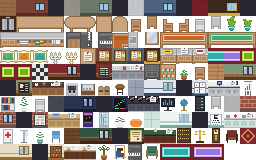
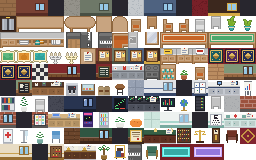
Lobby: five elevators (Tutorial, Floors 1–3, Daily) with name plates and gold-framed mats
The Tutorial and the Daily Case are elevators on the back wall like Floors 1–3; the front doors and
their long rugs are gone. Each elevator has its name on the door (the boxed plate the floors use for
LOBBY) and a LOCKED plate on its mat until it opens. New mats: a gold frame with corner studs and a
diamond (tools/art/elegant_mats.py, same tile indexes). Tags can set fit (tiles) so a plate's text
shrinks when the room is drawn small, which keeps five names apart on a phone.

Changed region(s): [[0.8125, 0.2812, 1.0, 0.4062], [0.0, 0.4062, 0.125, 0.5]]

diff --git a/app/tower/lobbyMap.ts b/app/tower/lobbyMap.ts
@@ -1,6 +1,6 @@
-// The tower lobby as a walkable map: elevators to Floors 1–3 on the back wall, the street door to the
-// The tutorial at the front, a reception desk and signs to read. Built in code from the
-// shared tileset so it follows the player's progress: a locked floor's elevator has no exit, only a sign.
+// The tower lobby as a walkable map: five elevators on the back wall (Tutorial, Floors 1–3, Daily Case),
+// each with a name plate on its door and a mat in front, a reception desk and signs to read. Built in
+// code from the shared tileset so it follows the player's progress: a locked elevator has no exit.
 import type { FloorMap } from "@/app/floor/types";
 import type { TowerFloor } from "@/server/game/tower";
 import { dailyCase, todayUtc } from "@/shared/dailyCase";
@@ -13,14 +13,14 @@ const T = {
   counter: 32, counterPapers: 33, counterFiles: 35, plant: 30, plantSmall: 31,
   painting: 49, bookshelf: 39, water: 40,
   chairDown: 24, tableRound: 23, chairLeft: 26, chairRight: 27, candelabra: 52,
-  matTutorial: 61, matDaily: 62, // cute welcome mats (tools/art/door_mats.py)
-  mat1: 63, mat2: 64, mat3: 65,
-  matTutorialL: 154, matTutorialR: 155, matDailyL: 156, matDailyR: 157, // 3-wide ends (tools/art/mat_words.py)
+  // Elevator mats: gold-framed runners (tools/art/elegant_mats.py).
+  matTutorial: 61, matDaily: 62, mat1: 63, mat2: 64, mat3: 65,
 } as const;
 
-export const ELEVATORS: Record<1 | 2 | 3, number> = { 1: 4, 2: 9, 3: 14 }; // x of each elevator door
-const DOOR_X = 9; // street door in the front wall
-export const DAILY_X = 15; // the Daily Case door, also in the front wall (open once the tutorial is cleared)
+export const ELEVATORS: Record<1 | 2 | 3, number> = { 1: 6, 2: 9, 3: 12 }; // x of each floor's elevator
+export const TUTORIAL_X = 3; // the Tutorial's elevator (it goes across the street to the little branch)
+export const DAILY_X = 15; // the Daily Case elevator (open once the Tutorial is cleared)
+const MID_X = 9;
 
 const clock = (ms: number) => {
   const s = Math.max(0, Math.round(ms / 1000));
@@ -29,11 +29,11 @@ const clock = (ms: number) => {
 
 /**
  * Where to stand when you come back to the lobby from a level (RESTART sends you to /tower?at=…):
- * in front of that floor's elevator facing it, or just inside the tutorial / Daily door facing out.
+ * in front of that level's elevator, facing it.
  */
 export function entranceSpawn(at: string | null | undefined): FloorMap["spawn"] | null {
-  if (at === "floor-0") return { x: DOOR_X, y: H - 3, facing: "down" };
-  if (at === "daily") return { x: DAILY_X, y: H - 3, facing: "down" };
+  if (at === "floor-0") return { x: TUTORIAL_X, y: 3, facing: "up" };
+  if (at === "daily") return { x: DAILY_X, y: 3, facing: "up" };
   const n = Number(at?.match(/^floor-([123])$/)?.[1]);
   return n ? { x: ELEVATORS[n as 1 | 2 | 3], y: 3, facing: "up" } : null;
 }
@@ -67,25 +67,17 @@ export function buildLobby(floors: TowerFloor[], entrance?: string | null): Floo
       else ground[at(x, y)] = T.floor;
     }
 
-  // Back wall: three elevators; numbered doormat on the doorway tile directly in front (y=2).
-  const elevatorMats = { 1: T.mat1, 2: T.mat2, 3: T.mat3 } as const;
-  for (const [n, x] of Object.entries(ELEVATORS)) {
+  // Back wall: five elevators, each with its mat on the tile in front (y=2), which is the exit.
+  for (const [x, mat] of [
+    [TUTORIAL_X, T.matTutorial],
+    [ELEVATORS[1], T.mat1],
+    [ELEVATORS[2], T.mat2],
+    [ELEVATORS[3], T.mat3],
+    [DAILY_X, T.matDaily],
+  ] as const) {
     walls[at(x, 1)] = T.elevator;
     ground[at(x, 0)] = T.floor;
-    ground[at(x, 2)] = elevatorMats[Number(n) as 1 | 2 | 3];
-  }
-  // Front wall: matching street / daily exits — opening in the wall (lobby carpet on the
-  // threshold), one rectangular doormat on the tile in front (not doubled on the exit itself).
-  for (const [x, l, mat, r] of [
-    [DOOR_X, T.matTutorialL, T.matTutorial, T.matTutorialR],
-    [DAILY_X, T.matDailyL, T.matDaily, T.matDailyR],
-  ] as const) {
-    walls[at(x, H - 1)] = -1;
-    ground[at(x, H - 1)] = T.floor; // threshold = same carpet as the lobby
-    // Welcome mat just inside, three tiles wide so its word fits (printed by the engine, MAT_WORDS).
-    ground[at(x - 1, H - 2)] = l;
-    ground[at(x, H - 2)] = mat;
-    ground[at(x + 1, H - 2)] = r;
+    ground[at(x, 2)] = mat;
   }
 
   const put = (x: number, y: number, tile: number, solid = true) => {
@@ -99,11 +91,8 @@ export function buildLobby(floors: TowerFloor[], entrance?: string | null): Floo
   put(2, 9, T.tableRound);
   put(2, 8, T.chairDown);
   put(16, 9, T.water);
-  put(15, 2, T.bookshelf);
-  put(3, 2, T.plantSmall);
-  // Portraits and candelabras on the back wall between the elevators (decor over the wall, not blocking).
-  for (const x of [7, 11]) put(x, 1, T.painting, false);
-  for (const x of [2, 16]) put(x, 1, T.candelabra, false);
+  // Candelabras on the back wall at the ends (decor over the wall, not blocking).
+  for (const x of [1, 17]) put(x, 1, T.candelabra, false);
   // Benches for visitors along the side walls, and plants by the desk.
   for (const y of [4, 5]) { put(1, y, T.chairRight); put(17, y, T.chairLeft); }
   put(6, 6, T.plantSmall);
@@ -112,7 +101,7 @@ export function buildLobby(floors: TowerFloor[], entrance?: string | null): Floo
   put(5, 11, T.plant);
 
   const byFloor = (n: number) => floors.find((f) => f.floor === n);
-  const exits: NonNullable<FloorMap["exits"]> = [{ x: DOOR_X, y: H - 1, to: "/floor/0" }];
+  const exits: NonNullable<FloorMap["exits"]> = [{ x: TUTORIAL_X, y: 2, to: "/floor/0" }];
   const props: NonNullable<FloorMap["props"]> = [];
 
   for (const [key, x] of Object.entries(ELEVATORS)) {
@@ -125,25 +114,24 @@ export function buildLobby(floors: TowerFloor[], entrance?: string | null): Floo
   }
 
   const p0 = byFloor(0);
-  // Daily doorway is always physically open; Lobby.tsx adds/removes the /daily exit based on
+  // The Daily elevator is always an exit; Lobby.tsx answers it with a LOCKED note until
   // tutorial clear (account or this browser). Blocking the cell made it feel broken.
   const today = dailyCase(todayUtc());
-  exits.push({ x: DAILY_X, y: H - 1, to: "/daily" });
-  // Readable props sit on the doormats (same tile as the rug) so the SPACE highlight lines up
-  // with the T / D — not on the wall tiles beside the doors (that looked like an offset hitbox).
+  exits.push({ x: DAILY_X, y: 2, to: "/daily" });
+  // Readable props sit on the mats (the exit tiles), like the floors' elevator signs.
   props.push({
     id: "daily-sign",
     x: DAILY_X,
-    y: H - 2,
+    y: 2,
     label: `Daily Case · ${today.title}`,
-    text: `A new case every day, the same for everyone. Today: ${today.employee.name}, ${today.employee.title.toLowerCase()} at ${today.place}. ${p0?.cleared ? "Walk through the door to play." : "Opens once you clear the tutorial."}`,
+    text: `A new case every day, the same for everyone. Today: ${today.employee.name}, ${today.employee.title.toLowerCase()} at ${today.place}. ${p0?.cleared ? "Step into the elevator to play." : "Opens once you clear the tutorial."}`,
   });
   props.push({
     id: "street-sign",
-    x: DOOR_X,
-    y: H - 2,
+    x: TUTORIAL_X,
+    y: 2,
     label: `Tutorial${p0?.cleared ? " · CLEARED" : ""}`,
-    text: "The tutorial: Barry is closing up the little branch across the street. Walk out through the door to try your first con.",
+    text: "The tutorial: Barry is closing up the little branch across the street. Step into the elevator to try your first con.",
   });
   props.push({
     id: "reception",
@@ -179,7 +167,7 @@ export function buildLobby(floors: TowerFloor[], entrance?: string | null): Floo
     tilesetColumns: 16,
     layers: { ground, walls, decor },
     blocked,
-    spawn: entranceSpawn(entrance) ?? { x: DOOR_X, y: H - 3, facing: "up" },
+    spawn: entranceSpawn(entrance) ?? { x: MID_X, y: H - 3, facing: "up" },
     npcs: [],
     props,
     exits,
@@ -188,20 +176,20 @@ export function buildLobby(floors: TowerFloor[], entrance?: string | null): Floo
 
 export { H as LOBBY_H, W as LOBBY_W };
 
-/** The words printed on the doormats, centred on each mat (FloorScene draws tags with `mat`). */
-export const MAT_WORDS: { x: number; y: number; text: string; mat: true }[] = [
-  { x: DOOR_X, y: H - 2, text: "TUTORIAL", mat: true },
-  { x: DAILY_X, y: H - 2, text: "DAILY", mat: true },
-  ...Object.entries(ELEVATORS).map(([n, x]) => ({ x, y: 2, text: n, mat: true as const })),
+/** Each elevator's name plate, on its door: the same boxed label the floors use for LOBBY, always shown. */
+export const ELEVATOR_NAMES: { x: number; y: number; text: string; always: true; fit: number }[] = [
+  { x: TUTORIAL_X, y: 1, text: "TUTORIAL", always: true, fit: 2.8 },
+  ...Object.entries(ELEVATORS).map(([n, x]) => ({ x, y: 1, text: `FLOOR ${n}`, always: true as const, fit: 2.8 })),
+  { x: DAILY_X, y: 1, text: "DAILY", always: true, fit: 2.8 },
 ];
 
-/** Where a player should head next from the lobby. Mats (T / D / 1–3) are the signs — no floating labels. */
+/** Where a player should head next from the lobby: the next elevator to ride. */
 export function lobbyGuide(floors: TowerFloor[]): {
   goal: { x: number; y: number } | null;
   tags: { x: number; y: number; text: string; endAt?: "x"; mat?: boolean }[];
 } {
   const f0 = floors.find((f) => f.floor === 0);
-  if (!f0?.cleared) return { goal: { x: DOOR_X, y: H - 1 }, tags: [] };
+  if (!f0?.cleared) return { goal: { x: TUTORIAL_X, y: 2 }, tags: [] };
   const next = floors.find((f) => f.floor > 0 && f.unlocked && !f.cleared);
   if (!next) return { goal: null, tags: [] };
   const x = ELEVATORS[next.floor as 1 | 2 | 3];

diff --git a/app/tower/Lobby.tsx b/app/tower/Lobby.tsx
@@ -1,6 +1,6 @@
 "use client";
 
-// The walkable tower lobby: the same engine as the floors, with the elevators and the street door as exits.
+// The walkable tower lobby: the same engine as the floors, with five elevators (Tutorial, Floors 1–3, Daily) as exits.
 import { useCallback, useEffect, useMemo, useRef, useState } from "react";
 import { useLatest, useMediaQuery } from "@/app/play/clientHooks";
 import { useRouter } from "next/navigation";
@@ -12,7 +12,7 @@ import { MusicToggle } from "@/app/play/MusicToggle";
 import { Elevator } from "@/app/floor/[floor]/Elevator";
 import { ExitConfirm } from "@/app/floor/ExitConfirm";
 import { openForGuest, useClearedHere } from "@/app/floor/guestProgress";
-import { DAILY_X, ELEVATORS, LOBBY_H, LOBBY_W, MAT_WORDS, elevatorSign } from "./lobbyMap";
+import { DAILY_X, ELEVATORS, ELEVATOR_NAMES, LOBBY_W, TUTORIAL_X, elevatorSign } from "./lobbyMap";
 import type { TowerFloor } from "@/server/game/tower";
 import { DailyPopup } from "./DailyPopup";
 import { DailyArchive } from "./DailyArchive";
@@ -44,7 +44,7 @@ export function Lobby({
   const [leaving, setLeaving] = useState<{ to: string; label: string } | null>(null);
 
   const leavingRef = useLatest(leaving);
-  // The Daily door is always an exit; while the tutorial isn't cleared, walking in says so instead of
+  // The Daily elevator is always an exit; while the tutorial isn't cleared, walking in says so instead of
   // silently doing nothing. Every other exit asks to confirm first (ExitConfirm).
   const [dailyLocked, setDailyLocked] = useState(false);
   const tutorialDoneRef = useRef(false);
@@ -64,7 +64,7 @@ export function Lobby({
     setPending(null);
     setLeaving({
       to,
-      label: to === "/daily" ? "Through the side door · Daily Case" : n === "0" ? "Across the street · Tutorial" : `Going up · Floor ${n}`,
+      label: to === "/daily" ? "Going up · Daily Case" : n === "0" ? "Going down · Tutorial" : `Going up · Floor ${n}`,
     });
   }, []);
   const arrived = useCallback(() => {
@@ -92,18 +92,14 @@ export function Lobby({
     tutorialDoneRef.current = tutorialDone;
   }, [tutorialDone]);
   const map = useMemo(() => {
-    const dailyCell = DAILY_X + (LOBBY_H - 1) * LOBBY_W;
     // Elevator mats (y=2): never block — stand/read even when locked; gating is exit-only.
-    const elevMats = new Set(
-      Object.values(ELEVATORS).map((x) => x + 2 * LOBBY_W),
-    );
+    const elevMats = new Set([TUTORIAL_X, ...Object.values(ELEVATORS), DAILY_X].map((x) => x + 2 * LOBBY_W));
     let exits = [...(serverMap.exits ?? [])];
-    let blocked = (serverMap.blocked ?? []).filter((i) => i !== dailyCell && !elevMats.has(i));
+    const blocked = (serverMap.blocked ?? []).filter((i) => !elevMats.has(i));
 
-    // Locked like the elevators until the tutorial is cleared: the doorway is blocked and the sign on the
-    // D mat says LOCKED. (onEvent still answers a locked exit with a message, as a fallback.)
-    if (!exits.some((e) => e.to === "/daily")) exits.push({ x: DAILY_X, y: LOBBY_H - 1, to: "/daily" });
-    if (!tutorialDone) blocked = [...blocked, dailyCell];
+    // The Daily elevator is an exit whatever your progress: until the Tutorial is cleared, stepping in
+    // says it's locked (onEvent) and its mat carries a LOCKED plate.
+    if (!exits.some((e) => e.to === "/daily")) exits.push({ x: DAILY_X, y: 2, to: "/daily" });
     const props = (serverMap.props ?? []).map((pr) => {
       // Guests: each elevator sign follows this browser's clears, not the shared demo player's.
       const n = Number(pr.id.match(/^sign-([123])$/)?.[1]);
@@ -114,8 +110,8 @@ export function Lobby({
             ...pr,
             label: `${pr.label.replace(/ · (LOCKED|OPEN)$/, "")} · ${tutorialDone ? "OPEN" : "LOCKED"}`,
             text: tutorialDone
-              ? pr.text.replace("Opens once you clear the tutorial.", "Walk through the door to play.")
-              : "Locked. Clear the Tutorial first, through the T door. Then a new case opens behind this door every day.",
+              ? pr.text.replace("Opens once you clear the tutorial.", "Step into the elevator to play.")
+              : "Locked. Clear the Tutorial first (the elevator on the left). Then a new case waits up here every day.",
           };
     });
 
@@ -142,11 +138,11 @@ export function Lobby({
   }, [guest, guide, key, map]);
   // A LOCKED sign, always visible, on every door you can't use yet (and none on doors you can).
   const tags = useMemo(() => {
-    const locked: { x: number; y: number; text: string; always: true }[] = [];
+    const locked: { x: number; y: number; text: string; always: true; fit: number }[] = [];
     for (const [k, x] of Object.entries(ELEVATORS))
-      if (!map.exits?.some((e) => e.to === `/floor/${k}`)) locked.push({ x, y: 1, text: "LOCKED", always: true });
-    if (!tutorialDone) locked.push({ x: DAILY_X, y: LOBBY_H - 1, text: "LOCKED", always: true });
-    return [...MAT_WORDS, ...shown.tags, ...locked];
+      if (!map.exits?.some((e) => e.to === `/floor/${k}`)) locked.push({ x, y: 2, text: "LOCKED", always: true, fit: 2.8 });
+    if (!tutorialDone) locked.push({ x: DAILY_X, y: 2, text: "LOCKED", always: true, fit: 2.8 });
+    return [...ELEVATOR_NAMES, ...shown.tags, ...locked];
   }, [shown.tags, map, tutorialDone]);
 
   const open = map.props?.find((p) => p.id === prop);
@@ -189,7 +185,7 @@ export function Lobby({
       {dailyLocked && (
         <PropDialogue
           label="Daily Case · locked"
-          text="The Daily Case opens once you've cleared the Tutorial, through the T door. After that, a new case waits behind this door every day."
+          text="The Daily Case opens once you've cleared the Tutorial (the elevator on the left). After that, a new case waits up here every day."
           onClose={() => setDailyLocked(false)}
         />
       )}

diff --git a/app/floor/engine/FloorScene.tsx b/app/floor/engine/FloorScene.tsx
@@ -546,8 +546,8 @@ export function FloorScene({ map, playerSprite: defaultSprite, paused, onEvent, 
       };
       // White pixel text centred in a dark plate (box = false: text only, with a dark shadow). The glyphs
       // are placed from their measured ink bounds, so they sit in the middle of the box both ways.
-      const plate = (x: number, y: number, text: string, padX: number, padY: number, opts: { box?: boolean; clamp?: boolean } = {}) => {
-        c.font = `${5 * u}px ${pixelFont}, monospace`;
+      const plate = (x: number, y: number, text: string, padX: number, padY: number, opts: { box?: boolean; clamp?: boolean; size?: number } = {}) => {
+        c.font = `${opts.size ?? 5 * u}px ${pixelFont}, monospace`;
         c.textAlign = "left";
         c.textBaseline = "alphabetic";
         const m = c.measureText(text);
@@ -689,9 +689,21 @@ export function FloorScene({ map, playerSprite: defaultSprite, paused, onEvent, 
           if (!always && dist > 3) continue;
           const a = always || reduceMotion ? 1 : Math.min(1, (4 - dist) / 2);
           c.globalAlpha = a;
-          c.font = `${5 * u}px ${pixelFont}, monospace`;
-          const wdt = c.measureText(t.text).width + 8 * u;
-          plate(t.endAt === "x" ? t.x * TILE - wdt / 2 - 2 : t.x * TILE + TILE / 2, t.y * TILE + TILE / 2, t.text, 4 * u, 2.5 * u, { clamp: false });
+          // `fit`: the plate stays within that many tiles, its text shrinking when the room is drawn small
+          // (the lobby's five elevator names on a phone), down to 60% of the usual size.
+          let size = 5 * u, pad = 1;
+          c.font = `${size}px ${pixelFont}, monospace`;
+          if (t.fit) {
+            const room = t.fit * TILE, need = c.measureText(t.text).width + 8 * u;
+            if (need > room) {
+              const k = Math.max(0.6, room / need);
+              size *= k;
+              pad = k;
+              c.font = `${size}px ${pixelFont}, monospace`;
+            }
+          }
+          const wdt = c.measureText(t.text).width + 8 * u * pad;
+          plate(t.endAt === "x" ? t.x * TILE - wdt / 2 - 2 : t.x * TILE + TILE / 2, t.y * TILE + TILE / 2, t.text, 4 * u * pad, 2.5 * u * pad, { clamp: false, size });
           c.globalAlpha = 1;
         }
       }

diff --git a/app/floor/types.ts b/app/floor/types.ts
@@ -50,7 +50,8 @@ export interface FloorSceneProps {
   /** Door / guide labels (e.g. "TUTORIAL") — nameplate style, centred on the tile (or `endAt: "x"`). */
   /** Text labels on the map. `mat`: printed on a doormat (no plate, always shown). */
   /** `always`: shown at any distance (e.g. a LOCKED sign on a door); otherwise a tag fades in near the player. */
-  tags?: { x: number; y: number; text: string; endAt?: "x"; mat?: boolean; always?: boolean }[];
+  /** `fit`: keep the plate within that many tiles wide (its text shrinks when the room is drawn small). */
+  tags?: { x: number; y: number; text: string; endAt?: "x"; mat?: boolean; always?: boolean; fit?: number }[];
   /** Labels drawn above heads: NPC id -> name, plus "player" for the player's name. */
   names?: Partial<Record<string, string>>;
   /**

diff --git a/tools/art/elegant_mats.py b/tools/art/elegant_mats.py
@@ -1,0 +1,77 @@
+"""Lobby elevator mats, one per elevator (Tutorial, Floors 1–3, Daily): a small runner with a dark edge,
+a gold frame with corner studs and a gold diamond in the middle, laid over the lobby carpet. The engine
+puts each elevator's name on its door, so the mats carry no letters.
+
+Redraws mat_tutorial, mat_daily and mat_1..3 in place (same indexes; nothing moves).
+
+    python3 -I tools/art/elegant_mats.py public/tiles/plumpurse.png app/floor/maps/tiles.json
+"""
+
+from __future__ import annotations
+
+import json
+import sys
+from pathlib import Path
+
+from PIL import Image
+
+sys.path.insert(0, str(Path(__file__).resolve().parent))
+from door_mats import T, append_or_replace  # noqa: E402
+
+Color = tuple[int, int, int, int]
+GOLD: Color = (222, 184, 98, 255)
+GOLD_DARK: Color = (156, 118, 52, 255)
+
+
+def shade(c: Color, k: float) -> Color:
+    return (int(c[0] * k), int(c[1] * k), int(c[2] * k), 255)
+
+
+def mat(floor_tile: Image.Image, field: Color) -> Image.Image:
+    im = floor_tile.copy()
+    px = im.load()
+    edge = shade(field, 0.55)
+    lo, hi = 1, T - 2  # a 1 px margin of carpet shows around the rug
+    for y in range(lo, hi + 1):
+        for x in range(lo, hi + 1):
+            if x in (lo, hi) or y in (lo, hi):
+                px[x, y] = edge
+            elif x in (lo + 1, hi - 1) or y in (lo + 1, hi - 1):
+                px[x, y] = GOLD if (x + y) % 2 else GOLD_DARK if (x in (lo + 1, hi - 1) and y in (lo + 1, hi - 1)) else GOLD
+            else:
+                px[x, y] = field
+    # Corner studs inside the frame.
+    for x, y in ((lo + 3, lo + 3), (hi - 3, lo + 3), (lo + 3, hi - 3), (hi - 3, hi - 3)):
+        px[x, y] = GOLD
+    # A gold diamond in the middle (7 px across), with a darker lower half for depth.
+    cx, cy = T // 2 - 0.5, T // 2 - 0.5
+    for y in range(T):
+        for x in range(T):
+            d = abs(x - cx) + abs(y - cy)
+            if d <= 3:
+                px[x, y] = GOLD if y < cy else GOLD_DARK
+            elif d <= 3.5 + 0.01 and lo + 2 < x < hi - 2 and lo + 2 < y < hi - 2:
+                px[x, y] = shade(field, 0.8)
+    return im
+
+
+def main() -> None:
+    sheet_path, catalog_path = Path(sys.argv[1]), Path(sys.argv[2])
+    catalog = json.loads(catalog_path.read_text())
+    sheet = Image.open(sheet_path).convert("RGBA")
+    cols = catalog["columns"]
+    fi = catalog["tiles"]["floor_executive"]["index"]
+    floor_tile = sheet.crop(((fi % cols) * T, (fi // cols) * T, (fi % cols + 1) * T, (fi // cols + 1) * T))
+
+    teal: Color = (26, 92, 98, 255)
+    navy: Color = (30, 44, 86, 255)
+    plum: Color = (76, 38, 96, 255)
+    for name, field in [("mat_tutorial", teal), ("mat_1", navy), ("mat_2", navy), ("mat_3", navy), ("mat_daily", plum)]:
+        sheet = append_or_replace(sheet, catalog, name, mat(floor_tile, field), "walk")
+
+    sheet.save(sheet_path)
+    catalog_path.write_text(json.dumps(catalog, indent=2) + "\n")
+
+
+if __name__ == "__main__":
+    main()
